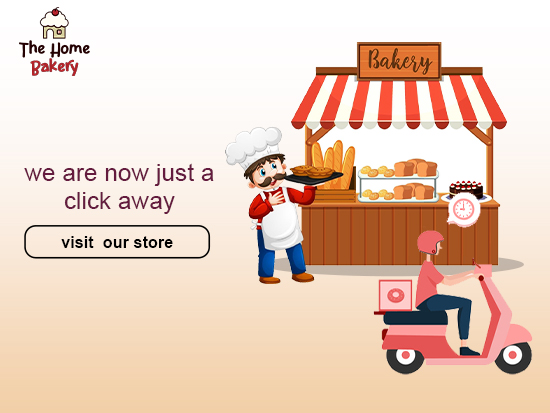
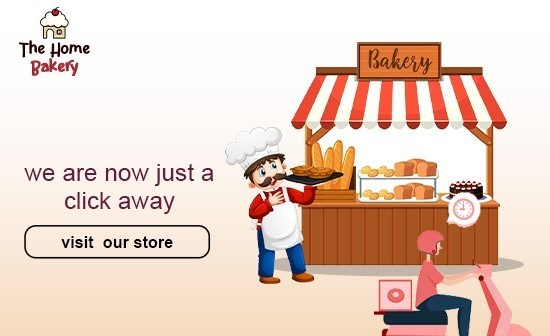
first commit

diff --git a/Mainheader.html b/Mainheader.html
@@ -53,20 +53,20 @@
         <div class="hidden md:flex items-center space-x-1">
           
           <!-- Home -->
-          <a href="../index.html" class="px-4 py-2 text-base font-medium text-gray-700 hover:text-primary hover:bg-gray-50 rounded-lg transition-all duration-200">
-            Home
+          <a href="../index.html" class="px-4 py-2 text-base font-medium text-black hover:text-primary hover:bg-gray-50 rounded-lg transition-all duration-200">
+            🏠 Home
           </a>
 
 
           <!-- Cakes Dropdown -->
           <div class="relative group">
-            <a href="/cakes/Allcakes.html" class="flex items-center px-4 py-2 text-base font-medium text-gray-700 hover:text-primary hover:bg-gray-50 rounded-lg transition-all duration-200">
-              Cakes
+            <a href="/cakes/Allcakes.html" class="flex items-center px-4 py-2 text-base font-medium text-black hover:text-primary hover:bg-gray-50 rounded-lg transition-all duration-200">
+              🎂 Cakes
               <i class="fas fa-chevron-down ml-1 text-xs transition-transform duration-300 group-hover:rotate-180"></i>
             </a>
             
             <!-- Cakes Dropdown Menu -->
-            <div class="absolute left-1/2 transform -translate-x-1/2 mt-2 w-[800px] bg-white shadow-dropdown rounded-xl opacity-0 invisible group-hover:opacity-100 group-hover:visible transition-all duration-300 z-50 border border-gray-100">
+            <div class="absolute left-1/2 transform -translate-x-1/2 mt-2 w-[650px] bg-white shadow-dropdown rounded-xl opacity-0 invisible group-hover:opacity-100 group-hover:visible transition-all duration-300 z-50 border border-gray-100">
               <div class="p-6 grid grid-cols-4 gap-6">
                 
                 <!-- By Type -->
@@ -148,8 +148,9 @@
 
           <!-- Pastries Dropdown -->
           <div class="relative group">
-            <a href="#" class="flex items-center px-4 py-2 text-base font-medium text-gray-700 hover:text-primary hover:bg-gray-50 rounded-lg transition-all duration-200">
-              Pastries
+            <a href="#" class="flex items-center px-4 py-2 text-base font-medium text-black hover:text-primary hover:bg-gray-50 rounded-lg transition-all duration-200">
+                  🥐 Pastries
+
               <i class="fas fa-chevron-down ml-1 text-xs transition-transform duration-300 group-hover:rotate-180"></i>
             </a>
             
@@ -209,21 +210,41 @@
           </div>
 
 
-            <!-- Home -->
-          <a href="custom.html" class="px-4 py-2 text-base font-medium text-gray-700 hover:text-primary hover:bg-gray-50 rounded-lg transition-all duration-200">
-           Customisation
-          </a>
+        <!-- Customisation Dropdown -->
+<div class="relative group">
+  <a href="custom.html" class="flex items-center px-4 py-2 text-base font-medium text-black hover:text-primary hover:bg-gray-50 rounded-lg transition-all duration-200">
+    🎨 Customisation
+    <i class="fas fa-chevron-down ml-1 text-xs transition-transform duration-300 group-hover:rotate-180"></i>
+  </a>
+
+  <!-- Dropdown Menu -->
+  <div class="absolute left-1/2 transform -translate-x-1/2 mt-2 w-60 bg-white shadow-dropdown rounded-xl opacity-0 invisible group-hover:opacity-100 group-hover:visible transition-all duration-300 z-50 border border-gray-100">
+    <div class="p-4 space-y-2">
+      <a href="/customisation/birthday.html" class="block px-3 py-2 text-sm text-gray-800 hover:text-primary hover:bg-gray-50 rounded-md transition-colors">
+        🎂 Birthday Cakes
+      </a>
+      <a href="/customisation/anniversary.html" class="block px-3 py-2 text-sm text-gray-800 hover:text-primary hover:bg-gray-50 rounded-md transition-colors">
+        💍 Anniversary Cakes
+      </a>
+      <a href="/customisation/kids.html" class="block px-3 py-2 text-sm text-gray-800 hover:text-primary hover:bg-gray-50 rounded-md transition-colors">
+        🧸 Kids Cakes
+      </a>
+    </div>
+  </div>
+</div>
+
+
           <!-- Other Navigation Links -->
-          <a href="#" class="px-4 py-2 text-base font-medium text-gray-700 hover:text-primary hover:bg-gray-50 rounded-lg transition-all duration-200">
+          <a href="#" class="px-4 py-2 text-base font-medium text-black hover:text-primary hover:bg-gray-50 rounded-lg transition-all duration-200">
             Track Order
           </a>
 
 
-          <a href="../contact.html" class="px-4 py-2 text-base font-medium text-gray-700 hover:text-primary hover:bg-gray-50 rounded-lg transition-all duration-200">
+          <a href="../contact.html" class="px-4 py-2 text-base font-medium text-black hover:text-primary hover:bg-gray-50 rounded-lg transition-all duration-200">
             Contact Us
           </a>
 
-          <a href="../about.html" class="px-4 py-2 text-base font-medium text-gray-700 hover:text-primary hover:bg-gray-50 rounded-lg transition-all duration-200">
+          <a href="../about.html" class="px-4 py-2 text-base font-medium text-black hover:text-primary hover:bg-gray-50 rounded-lg transition-all duration-200">
             About Us
           </a>
         </div>
@@ -231,21 +252,21 @@
         <!-- Right Side Icons -->
         <div class="hidden md:flex items-center space-x-5">
           <!-- Wishlist -->
-          <a href="wishlist.html" class="relative flex flex-col items-center p-1 text-gray-700 hover:text-primary transition-all duration-200 hover:bg-gray-50 rounded-lg">
+          <a href="wishlist.html" class="relative flex flex-col items-center p-1 text-black hover:text-primary transition-all duration-200 hover:bg-gray-50 rounded-lg">
             <i class="fas fa-heart text-lg"></i>
             <span class="text-xs mt-1">Wishlist</span>
             <span id="wishlist-count" class="absolute -top-1 -right-1 bg-primary text-white text-xs rounded-full h-5 w-5 flex items-center justify-center">0</span>
           </a>
 
           <!-- Cart -->
-          <a href="cart.html" class="relative flex flex-col items-center p-1 text-gray-700 hover:text-primary transition-all duration-200 hover:bg-gray-50 rounded-lg">
+          <a href="cart.html" class="relative flex flex-col items-center p-1 text-black hover:text-primary transition-all duration-200 hover:bg-gray-50 rounded-lg">
             <i class="fas fa-shopping-cart text-lg"></i>
             <span class="text-xs mt-1">Cart</span>
             <span id="cart-count" class="absolute -top-1 -right-1 bg-primary text-white text-xs rounded-full h-5 w-5 flex items-center justify-center">0</span>
           </a>
 
           <!-- Login -->
-          <a href="login.html" class="flex flex-col items-center p-1 text-gray-700 hover:text-primary transition-all duration-200 hover:bg-gray-50 rounded-lg">
+          <a href="login.html" class="flex flex-col items-center p-1 text-black hover:text-primary transition-all duration-200 hover:bg-gray-50 rounded-lg">
             <i class="fas fa-user text-lg"></i>
             <span class="text-xs mt-1">Login</span>
           </a>

diff --git a/login.html b/login.html
@@ -40,6 +40,40 @@
       color: #888;
     }
 
+    /* Modal styles */
+    .modal-overlay {
+      position: fixed;
+      top: 0;
+      left: 0;
+      width: 100%;
+      height: 100%;
+      background: rgba(0, 0, 0, 0.5);
+      display: flex;
+      align-items: center;
+      justify-content: center;
+      z-index: 1000;
+      opacity: 0;
+      visibility: hidden;
+      transition: all 0.3s ease;
+    }
+    .modal-overlay.show {
+      opacity: 1;
+      visibility: visible;
+    }
+    .modal-content {
+      background: white;
+      padding: 2rem;
+      border-radius: 1rem;
+      max-width: 400px;
+      width: 90%;
+      box-shadow: 0 20px 25px -5px rgba(0, 0, 0, 0.1);
+      transform: scale(0.95);
+      transition: transform 0.3s ease;
+    }
+    .modal-overlay.show .modal-content {
+      transform: scale(1);
+    }
+
     /* Mobile specific styles */
     @media (max-width: 768px) {
       .video-bg {
@@ -58,7 +92,7 @@
 <body class="flex items-center justify-center min-h-screen p-4">
 
   <!-- Main Card -->
-  <div class="bg-white rounded-2xl shadow-2xl flex flex-col md:flex-row w-full max-w-[1100px] h-auto md:h-[590px] overflow-hidden">
+  <div class="bg-white rounded-2xl shadow-2xl flex flex-col md:flex-row w-full max-w-[1000px] h-auto md:h-[500px] overflow-hidden">
 
     <!-- Left Section (Login / Signup Forms) -->
     <div class="w-full md:w-1/2 flex flex-col justify-center px-6 md:px-10 py-8 md:py-0 order-2 md:order-1">
@@ -81,7 +115,7 @@
               <input type="checkbox" class="accent-[#660B05]">
               <span>Remember me</span>
             </label>
-            <a href="#" class="text-[#660B05] hover:underline">Forgot Password?</a>
+            <button type="button" onclick="showForgotPasswordModal()" class="text-[#660B05] hover:underline">Forgot Password?</button>
           </div>
 
           <button class="w-full bg-[#660B05] hover:bg-[#954C2E] text-white font-medium py-2.5 rounded-lg shadow-md transition">Sign In</button>
@@ -138,6 +172,51 @@
     </div>
   </div>
 
+  <!-- Forgot Password Modal -->
+  <div id="forgotPasswordModal" class="modal-overlay">
+    <div class="modal-content">
+      <div class="flex justify-between items-center mb-4">
+        <h3 class="text-xl font-bold text-[#660B05]">Reset Password</h3>
+        <button onclick="closeForgotPasswordModal()" class="text-gray-500 hover:text-gray-700 text-2xl">&times;</button>
+      </div>
+      
+      <p class="text-gray-600 text-sm mb-6">Enter your email address and we'll send you a link to reset your password.</p>
+      
+      <form id="forgotPasswordForm" onsubmit="handleForgotPassword(event)" class="space-y-4">
+        <input 
+          type="email" 
+          id="forgotPasswordEmail"
+          placeholder="Enter your email address" 
+          required 
+          class="w-full border border-gray-300 rounded-lg p-2.5 text-sm focus:outline-none focus:ring-2 focus:ring-[#660B05]"
+        >
+        
+        <button 
+          type="submit" 
+          class="w-full bg-[#660B05] hover:bg-[#954C2E] text-white font-medium py-2.5 rounded-lg shadow-md transition"
+        >
+          Send Reset Link
+        </button>
+      </form>
+      
+      <button onclick="closeForgotPasswordModal()" class="w-full mt-3 text-[#660B05] hover:underline text-sm">
+        Back to Login
+      </button>
+    </div>
+  </div>
+
+  <!-- Success Message Modal -->
+  <div id="successModal" class="modal-overlay">
+    <div class="modal-content text-center">
+      <div class="text-green-500 text-4xl mb-4">✓</div>
+      <h3 class="text-xl font-bold text-[#660B05] mb-2">Email Sent!</h3>
+      <p class="text-gray-600 text-sm mb-6">We've sent a password reset link to your email address. Please check your inbox and follow the instructions.</p>
+      <button onclick="closeSuccessModal()" class="w-full bg-[#660B05] hover:bg-[#954C2E] text-white font-medium py-2.5 rounded-lg shadow-md transition">
+        OK
+      </button>
+    </div>
+  </div>
+
   <script>
     function showSignup() {
       document.getElementById("loginSection").classList.add("hidden");
@@ -159,6 +238,70 @@
         element.textContent = "👁";
       }
     }
+
+    function showForgotPasswordModal() {
+      document.getElementById("forgotPasswordModal").classList.add("show");
+      document.body.style.overflow = "hidden"; // Prevent background scrolling
+    }
+
+    function closeForgotPasswordModal() {
+      document.getElementById("forgotPasswordModal").classList.remove("show");
+      document.body.style.overflow = "auto";
+      // Clear the form
+      document.getElementById("forgotPasswordForm").reset();
+    }
+
+    function showSuccessModal() {
+      document.getElementById("successModal").classList.add("show");
+    }
+
+    function closeSuccessModal() {
+      document.getElementById("successModal").classList.remove("show");
+      document.body.style.overflow = "auto";
+      closeForgotPasswordModal();
+    }
+
+    function handleForgotPassword(event) {
+      event.preventDefault();
+      
+      const email = document.getElementById("forgotPasswordEmail").value;
+      
+      if (email) {
+        // Here you would typically send the email to your backend
+        console.log("Sending reset link to:", email);
+        
+        // Show success modal
+        showSuccessModal();
+        
+        // In a real application, you would make an API call like:
+        // fetch('/api/forgot-password', {
+        //   method: 'POST',
+        //   headers: { 'Content-Type': 'application/json' },
+        //   body: JSON.stringify({ email: email })
+        // });
+      }
+    }
+
+    // Close modal when clicking outside
+    document.getElementById("forgotPasswordModal").addEventListener("click", function(e) {
+      if (e.target === this) {
+        closeForgotPasswordModal();
+      }
+    });
+
+    document.getElementById("successModal").addEventListener("click", function(e) {
+      if (e.target === this) {
+        closeSuccessModal();
+      }
+    });
+
+    // Close modal with Escape key
+    document.addEventListener("keydown", function(e) {
+      if (e.key === "Escape") {
+        closeForgotPasswordModal();
+        closeSuccessModal();
+      }
+    });
   </script>
 
 </body>

diff --git a/index.html b/index.html
@@ -427,7 +427,7 @@ Croissant Coming Soon
     <div class="grid md:grid-cols-2 gap-8 mb-12">
         <!-- Card 1 -->
         <div class="flex flex-col items-center">
-            <div class="h-96 w-full bg-[#5a0a0a] bg-contain bg-no-repeat bg-center rounded-3xl border-4 border-[#5a0a0a]"
+            <div class="h-96 w-full bg-[#5a0a0a] bg-cover bg-no-repeat bg-center rounded-3xl border-4 border-[#5a0a0a]"
                 style="background-image: url('IMG/bakery 1st banner.jpg');">
             </div>
             <a href="./cakes/Allcakes.html" class="mt-4 bg-[#5a0a0a] hover:bg-pink-600 text-white font-bold px-6 py-3 rounded-full transition-colors text-lg text-center inline-block">
@@ -437,7 +437,7 @@ Croissant Coming Soon
 
         <!-- Card 2 -->
         <div class="flex flex-col items-center">
-            <div class="h-96 w-full bg-[#5a0a0a] bg-contain bg-no-repeat bg-center rounded-3xl border-4 border-[#5a0a0a]"
+            <div class="h-96 w-full bg-[#5a0a0a] bg-cover bg-no-repeat bg-center rounded-3xl border-4 border-[#5a0a0a]"
                 style="background-image: url('IMG/bakery 2nd banner.jpg');">
             </div>
             <a href="https://www.google.com/maps/place/Kunash+Media+Solution/@18.64312,73.7703967,17z/data=!4m14!1m7!3m6!1s0x3bc2b9a033d099e1:0x7a4c9dfa99aff084!2sKunash+Media+Solution!8m2!3d18.64312!4d73.772977!16s%2Fg%2F11vw_c0_57!3m5!1s0x3bc2b9a033d099e1:0x7a4c9dfa99aff084!8m2!3d18.64312!4d73.772977!16s%2Fg%2F11vw_c0_57?entry=ttu&g_ep=EgoyMDI1MDkxMC4wIKXMDSoASAFQAw%3D%3D" target="_blank" class="mt-4 bg-[#5a0a0a] hover:bg-pink-600 text-white font-bold px-6 py-3 rounded-full transition-colors text-lg text-center inline-block">
@@ -1016,8 +1016,8 @@ Croissant Coming Soon
         <div class="grid grid-cols-2 md:grid-cols-4 gap-6 sm:gap-8">
             <!-- About Us -->
             <div class="col-span-2 md:col-span-1">
-                <h3 class="text-primary font-bold text-lg sm:text-xl mb-3 sm:mb-4">Artisan Bakery</h3>
-                <p class="text-black text-sm sm:text-base">Handcrafted with love since 2010. We bake happiness into every product.</p>
+                <h3 class="text-primary font-bold text-lg sm:text-xl mb-3 sm:mb-4">The Home Bakery</h3>
+                <p class="text-black text-sm sm:text-base"> We bake happiness into every product.</p>
             </div>
 
             <!-- Quick Links -->
@@ -1073,7 +1073,7 @@ Croissant Coming Soon
 
         <!-- Copyright -->
         <div class="border-t border-gray-300 mt-8 sm:mt-12 pt-6 sm:pt-8 text-center text-black text-xs sm:text-sm">
-            <p>© 2023 Artisan Bakery Delights. All rights reserved.</p>
+            <p>© 2025 The Home Bakery . All rights reserved.</p>
         </div>
     </div>
 </footer>
